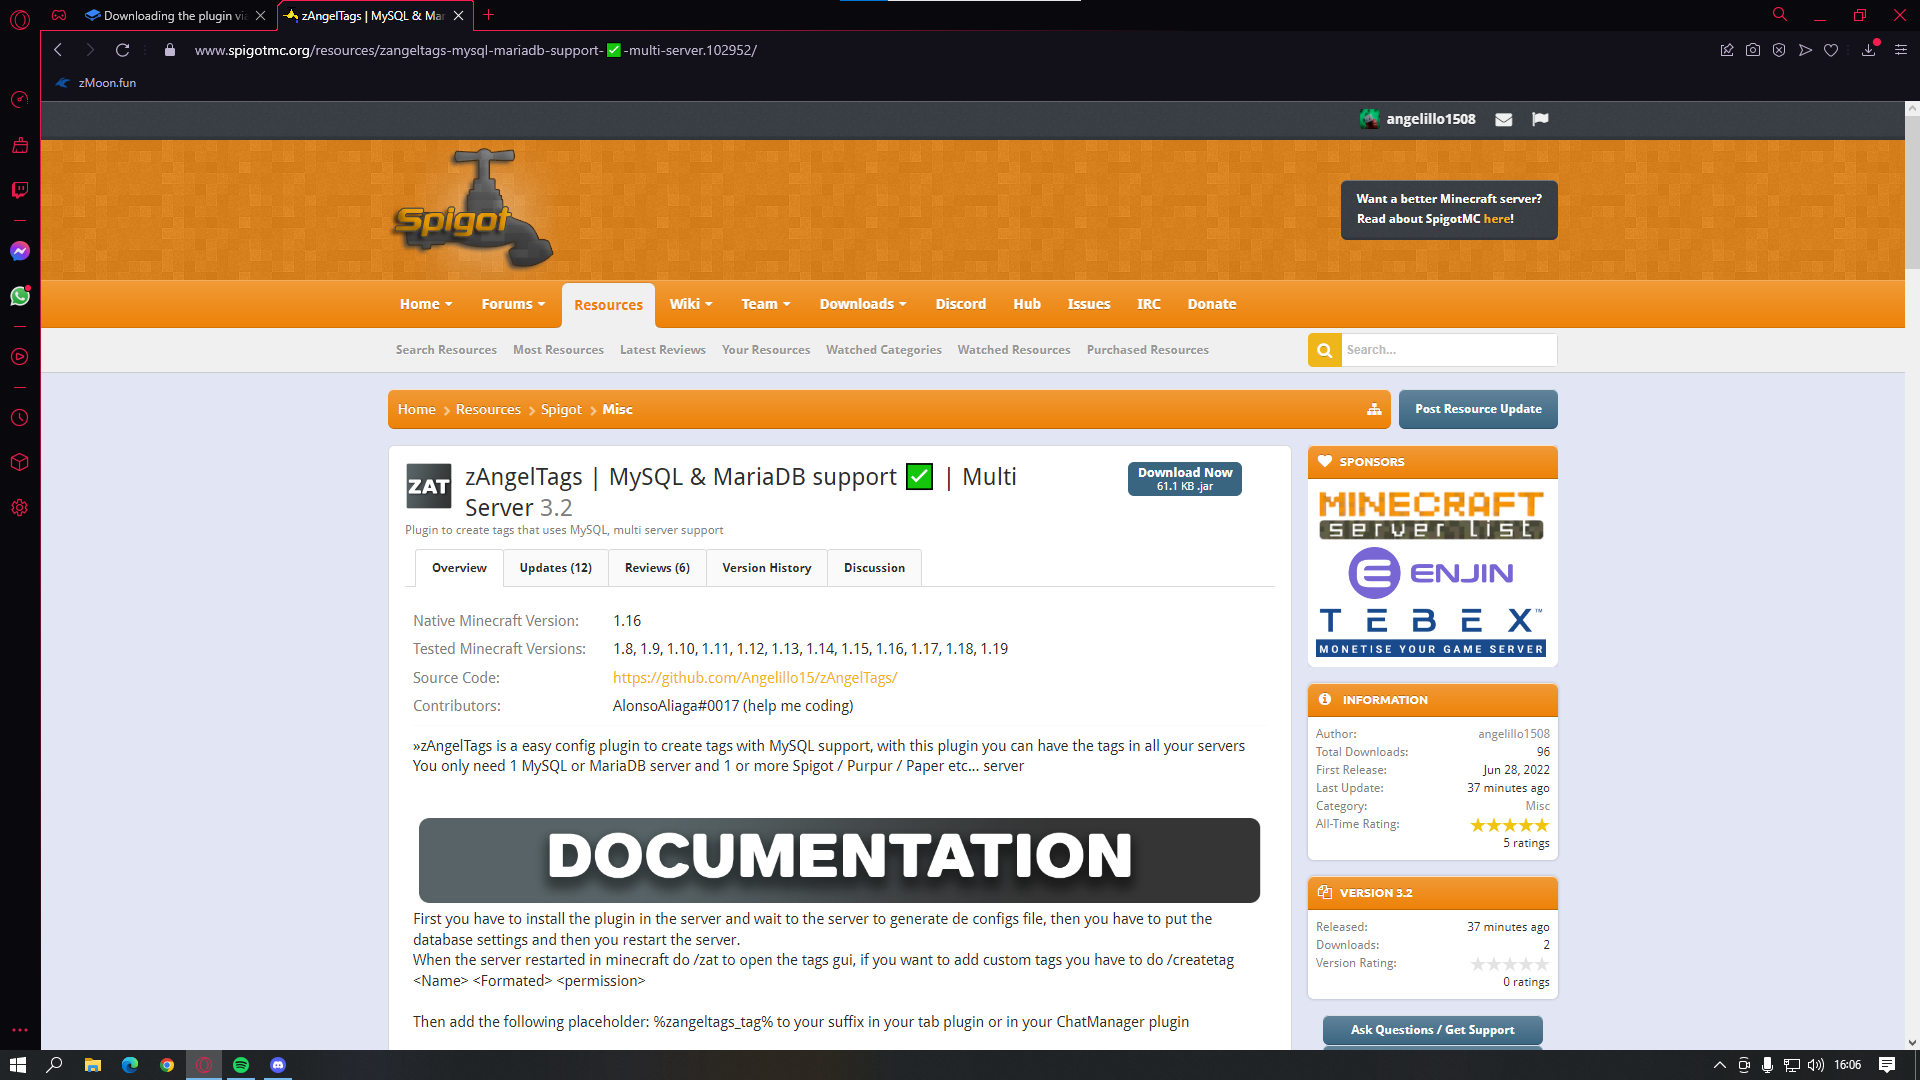
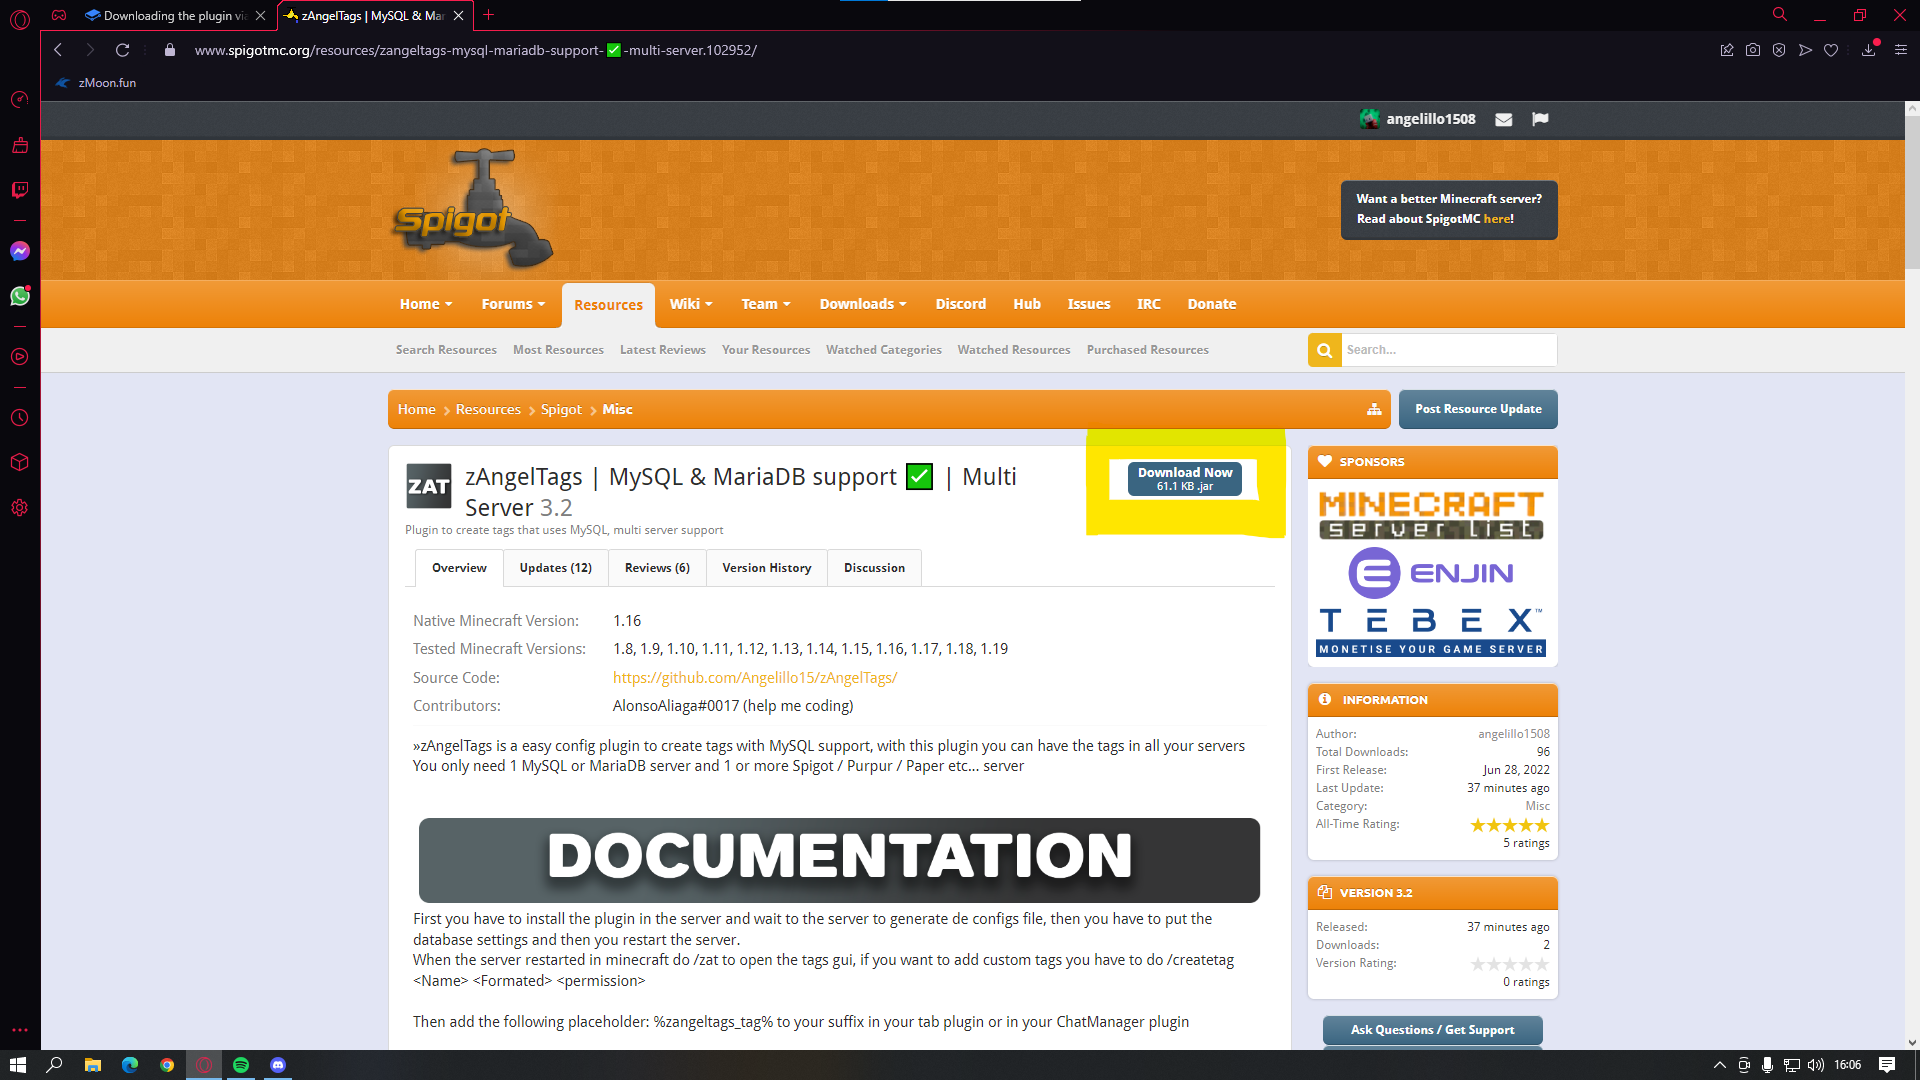
GitBook: [#7] No subject

Changed region(s): [[0.5625, 0.3972, 0.6875, 0.5194]]

diff --git a/first-steps/downloading-the-plugin/downloading-the-plugin-via-spigotmc.md b/first-steps/downloading-the-plugin/downloading-the-plugin-via-spigotmc.md
@@ -2,4 +2,8 @@
 
 To download zAngelTags, you just need to [click here](https://www.spigotmc.org/resources/zangeltags-mysql-mariadb-support-%E2%9C%85-multi-server.102952/), and you will be redirected to my SpigotMC page. Something similar to this will appear:
 
-![](../../.gitbook/assets/image.png)
+![zAngelTags page on SpigotMC](<../../.gitbook/assets/image (1).png>)
+
+Then, you just need to click on the Download Now button to download the latest version of my plugin. Then, the plugin will be downloaded to your computer's downloads folder.
+
+![zAngelTags page on SpigotMC](../../.gitbook/assets/image.png)
